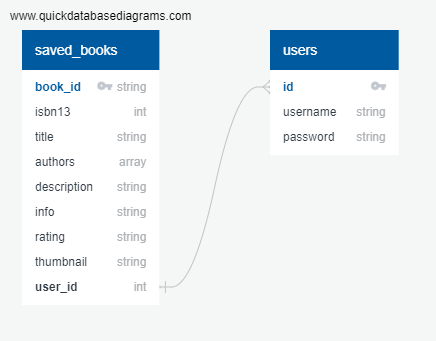
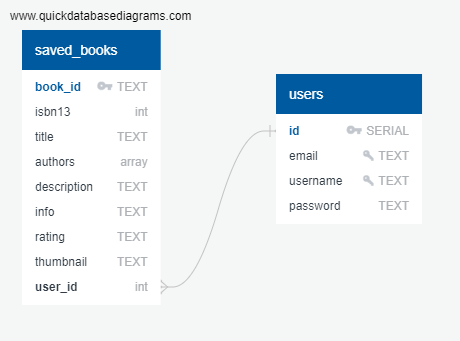
added test

diff --git a/tests.py b/tests.py
@@ -1,0 +1,172 @@
+"""Sample test suite for testing demo."""
+from flask import session
+from unittest import TestCase
+from app import app
+import json
+
+
+# Make Flask errors be real errors, not HTML pages with error info
+app.config['TESTING'] = True
+
+
+# This is a bit of hack, but don't use Flask DebugToolbar
+app.config['DEBUG_TB_HOSTS'] = ['dont-show-debug-toolbar']
+# app.config["DEBUG_TB_INTERCEPT_REDIRECTS"] = False
+
+
+class HomeViewsTestCase(TestCase):
+    """Examples of integration tests: testing Flask app."""
+
+    # @classmethod
+
+    # def setUpClass(cls):
+    #     print("Inside Set up Class")
+    
+    # @classmethod
+    # def tearDownClass(cls):
+    #     print("Inside Tear Down Class")
+
+    def setUp(self):
+        with app.test_client() as client:
+            res = client.post("/signup",
+            data=({"username": "testuser", "password": "password","new_password_match":"password","email":"testuser@gmail.com"}),
+            follow_redirects=True)
+            html = res.get_data(as_text=True)
+            # print(session)
+            # print(html)
+    def tearDown(self):
+        with app.test_client() as client:
+            res2 = client.post("/login",
+            data=({"username": "testuser", "password": "password"}),
+            follow_redirects=True)
+            res = client.post(f'/users/{session["curr_user"]}/delete_user', data={"delete_user": "password", "username": "testuser"}, follow_redirects=True)
+            html = res.get_data(as_text=True)
+    
+    def test_home_page(self):
+        "Check response status code and html"
+        with app.test_client() as client:
+            res = client.get("/")
+            html = res.get_data(as_text=True)
+            self.assertEqual(res.status_code, 200)
+            self.assertIn("Search a book.", html)
+            self.assertIn("Enter Title, Author, or ISBN", html)
+
+    
+    def test_login(self):
+        "Check if session changes with login"
+        with app.test_client() as client:
+            from forms import LoginForm
+            res = client.get("/login")
+            raised = False
+            try:
+                session["curr_user"]
+            except:
+                raised = True
+        # Status:Signed in
+            self.assertTrue(raised, "Exception raised")
+            # DB comes loaded with testuser
+            res2 = client.post("/login",
+            data=({"username": "testuser", "password": "password"}),
+            follow_redirects=True)
+            html2 = res2.get_data(as_text=True)
+            self.assertEqual(res2.status_code, 200)
+            # self.assertIsInstance(session["curr_user"], int)
+            raised = False
+            try:
+                session["curr_user"]
+            except:
+                raised = True
+            self.assertFalse(raised, "Exception raised")
+
+    def test_signup_and_delete(self):
+        "Check if session changes with signup and check if profile is deleted"
+        with app.test_client() as client:
+            from forms import LoginForm
+            res = client.get("/signup")
+        # Status:Signed out
+            raised = False
+            try:
+                session["curr_user"]
+            except:
+                raised = True
+        # Status:Signed in
+            self.assertTrue(raised, "Exception raised")
+            res2 = client.post("/signup",
+            data=({"username": "ksjafiuenadsf", "password": "password","new_password_match":"password","email":"ksjafiuenadsf@gmail.com"}),
+            follow_redirects=True)
+            html2 = res2.get_data(as_text=True)
+            self.assertEqual(res2.status_code, 200)
+            # self.assertIsInstance(session["curr_user"], int)
+            raised = False
+            try:
+                session["curr_user"]
+            except:
+                raised = True
+        # Status:Signed in
+            self.assertFalse(raised, "Exception raised")
+
+        # Deleting user now
+            res3 = client.post(f'/users/{session["curr_user"]}/delete_user', data={"delete_user": "password"}, follow_redirects=True)
+            html3 = res3.get_data(as_text=True)
+        # Status:Signed out
+            raised = False
+            try:
+                session["curr_user"]
+            except:
+                raised = True
+        # Status:Signed in
+            self.assertTrue(raised, "Exception raised")
+    def test_edit_username(self):
+        "Check if session changes with login"
+        with app.test_client() as client:
+            from forms import LoginForm
+            # DB comes loaded with testuser
+            res2 = client.post("/login",
+            data=({"username": "testuser", "password": "password"}),
+            follow_redirects=True)
+            html2 = res2.get_data(as_text=True)
+            self.assertEqual(res2.status_code, 200)
+            raised = False
+            try:
+                session["curr_user"]
+            except:
+                raised = True
+            self.assertFalse(raised, "Exception raised")
+            res3 = client.post(f'/users/{session["curr_user"]}/edit/username',
+            data=({"username": "testuser1", "password": "password"}),
+            follow_redirects=True)
+            html3 = res3.get_data(as_text=True)
+            self.assertIn("Username changed to testuser1", html3)
+            self.assertEqual(res3.status_code, 200)
+            res4 = client.post(f'/users/{session["curr_user"]}/edit/username',
+            data=({"username": "testuser", "password": "password"}),
+            follow_redirects=True)
+            html4 = res4.get_data(as_text=True)
+            self.assertEqual(res4.status_code, 200)
+            self.assertIn("Username changed to testuser", html4)
+
+    def test_edit_password(self):
+        "Check if session changes with login"
+        with app.test_client() as client:
+            from forms import LoginForm
+            # DB comes loaded with testuser
+            res2 = client.post("/login",
+            data=({"username": "testuser", "password": "password"}),
+            follow_redirects=True)
+            html2 = res2.get_data(as_text=True)
+            self.assertEqual(res2.status_code, 200)
+            raised = False
+            try:
+                session["curr_user"]
+            except:
+                raised = True
+            self.assertFalse(raised, "Exception raised")
+            # Changing old password to the same password
+            res3 = client.post(f'/users/{session["curr_user"]}/edit/password',
+            data=({ "password": "password", "new_password":"password", "new_password_match":"password"}),
+            follow_redirects=True)
+            html3 = res3.get_data(as_text=True)
+            self.assertIn("Password Changed", html3)
+            self.assertEqual(res3.status_code, 200)
+
+

diff --git a/app.py b/app.py
@@ -17,13 +17,15 @@ wtforms_json.init()
 CURR_USER_KEY = "curr_user"
 # Get DB_URI from environ variable (useful for production/testing) or,
 # if not set there, use development local db.
-app.config['SQLALCHEMY_DATABASE_URI'] = (
-    os.environ.get('DATABASE_URL', "postgres://postgres@127.0.0.1:5432/book_db"))
+test_db = None
+# test_db = "postgres://postgres@127.0.0.1:5432/book_db_test"
+app.config['SQLALCHEMY_DATABASE_URI'] = (os.environ.get('DATABASE_URL', test_db or "postgres://postgres@127.0.0.1:5432/book_db"))
 
 app.config['SQLALCHEMY_TRACK_MODIFICATIONS'] = False
 app.config['SQLALCHEMY_ECHO'] = False
 app.config['DEBUG_TB_INTERCEPT_REDIRECTS'] = False
 app.config['SECRET_KEY'] = os.environ.get('SECRET_KEY', "secret")
+
 
 toolbar = DebugToolbarExtension(app)
 
@@ -95,8 +97,7 @@ def signup():
     If the there already is a user with that username: flash message
     and re-present form.
     """
-
-    form = UserForm()
+    form = UserForm(csrf_enabled=True if not test_db else False)
     if g.user:
         return redirect(f"/")
 
@@ -130,7 +131,7 @@ def login():
     """Handle user login."""
     if g.user:
         return redirect(f"/")
-    form = LoginForm()
+    form = LoginForm(csrf_enabled=True if not test_db else False)
     if form.validate_on_submit():
         user = User.authenticate(form.username.data,
                                  form.password.data)
@@ -231,7 +232,7 @@ def edit_username(user_id):
         flash("Must be logged in to access this", 'danger')
         return redirect("/")
 
-    form = EditUsernameForm()
+    form = EditUsernameForm(csrf_enabled=True if not test_db else False)
 
     if form.validate_on_submit():
         user = User.authenticate(g.user.username,
@@ -263,20 +264,14 @@ def edit_password(user_id):
         flash("Must be logged in to access this", 'danger')
         return redirect("/")
 
-    form = EditUserPasswordForm()
+    form = EditUserPasswordForm(csrf_enabled=True if not test_db else False)
     if form.validate_on_submit():
         if (form.new_password.data != form.new_password_match.data):
             flash("Passwords did not match", 'danger')
             return render_template('user/edit_password.html', form=form, user=g.user)
         user = User.authenticate(g.user.username,
                                  form.password.data)
-
         if user:
-
-            if form.new_password.data != form.new_password_match.data:
-                flash("New Password inputs did not match, try again", "danger")
-                return redirect(f"users/{user_id}/edit/password")
-            else:
                 user = User.change_password(user, form.new_password.data)
                 flash("Password Changed", "success")
                 return redirect("/")
@@ -295,15 +290,15 @@ def delete_user(user_id):
         flash("Must be logged in to access this", 'danger')
         return redirect("/")
 
-    form = DeleteUserForm()
-
+    form = DeleteUserForm(csrf_enabled=True if not test_db else False)
     if form.validate_on_submit():
-        user = User.authenticate(g.user.username,
+        user = User.authenticate(g.user.username or form.username.data,
                                  form.delete_user.data)
         if user:
             db.session.delete(user)
             username = user.username
             db.session.commit()
+            do_logout()
             flash(
                 f"Farewell, {username}. You're always welcome to come back", "success")
             return redirect("/")

diff --git a/models.py b/models.py
@@ -98,15 +98,15 @@ class SavedBooks(db.Model):
         
     __tablename__ = 'saved_books'
         
-    id = db.Column(db.String, primary_key=True, default = "The ID of this book is not available")
-    isbn13 = db.Column(db.String, index=True, default = "N/A")
-    title = db.Column(db.String, index=True, default = "The title of this book is not available")
-    rating = db.Column(db.String, default="N/A")
-    info = db.Column(db.String, default="N/A")
-    authors = db.Column((ARRAY(db.String)), default=["N/A"])
-    authors_string = db.Column(db.String, default = "N/A")
-    description = db.Column(db.String, default = "A description of this book is not available")
-    thumbnail = db.Column(db.String, default = "https://upload.wikimedia.org/wikipedia/commons/thumb/a/ac/No_image_available.svg/1024px-No_image_available.svg.png")
+    id = db.Column(db.Text, primary_key=True, default = "The ID of this book is not available")
+    isbn13 = db.Column(db.Text, index=True, default = "N/A")
+    title = db.Column(db.Text, index=True, default = "The title of this book is not available")
+    rating = db.Column(db.Text, default="N/A")
+    info = db.Column(db.Text, default="N/A")
+    authors = db.Column((ARRAY(db.Text)), default=["N/A"])
+    authors_string = db.Column(db.Text, default = "N/A")
+    description = db.Column(db.Text, default = "A description of this book is not available")
+    thumbnail = db.Column(db.Text, default = "https://upload.wikimedia.org/wikipedia/commons/thumb/a/ac/No_image_available.svg/1024px-No_image_available.svg.png")
     user_id = db.Column(db.Integer, db.ForeignKey('users.id'), nullable=False)
 
 

diff --git a/README.md b/README.md
@@ -46,3 +46,16 @@ API Used:
 
 An overview of how the database is set up.  
 ![image info](./database_design.png)
+
+### Tests
+
+##
+
+Tests are currently only compatible in WSL
+
+Follow Along to get them running: 
+
+1. Remove the # at the beginning of line 21 in the app.py
+2. In your terminal, run this command (without the quotes) python3 -m unittest tests.py
+3. Your terminal may or may not tell you to remove the 3 in python3 in the command you just ran depending on what version of python you are running.
+4. Optional - Inspect all of the tests in test.py to see what is being tested.
